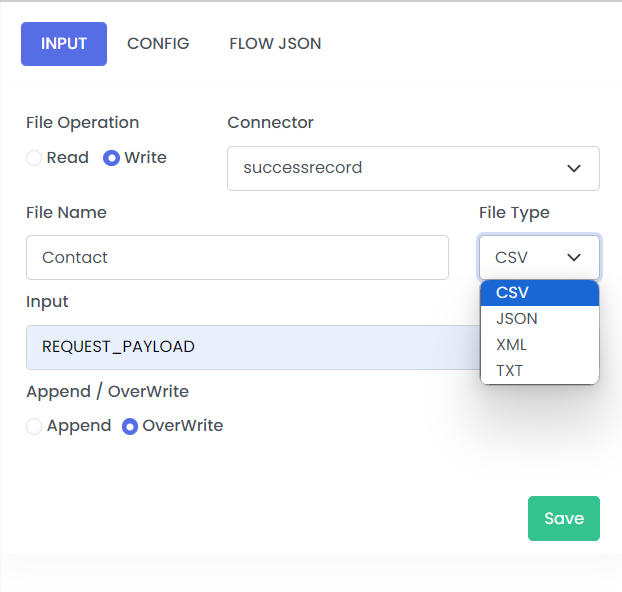
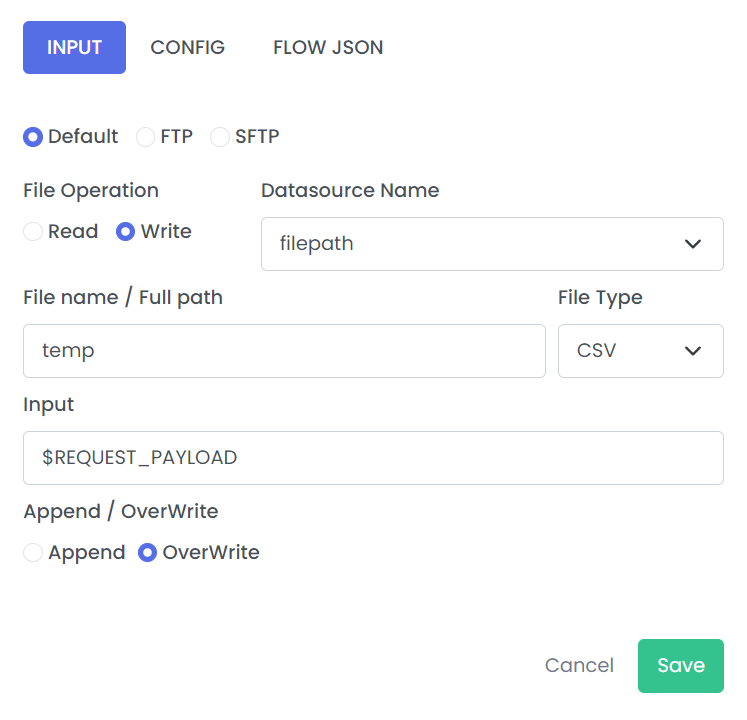
(pranab) updated file connector and url validator

diff --git a/docs/Core Development/Connectors/FILE/DEFAULT.md b/docs/Core Development/Connectors/FILE/DEFAULT.md
@@ -1,0 +1,150 @@
+---
+sidebar_position: 1
+slug: "file-connector"
+sidebar_label: "DEFAULT"
+---
+
+import useBaseUrl from '@docusaurus/useBaseUrl';
+
+# Default file Connector
+
+**Default file** Connector is used to handle **File**s in **AWS S3**
+
+<img src={useBaseUrl('/img/Connectors/FILE_Connector.png')} />
+
+#### Default file-Connector features:
+
+1. Ability to read Files from s3
+2. Writing Files to s3
+3. Copy and move Files in s3
+4. Locking File so that no one can access File when the processing is going on
+5. Listing the File and folders mentioned at directory path
+6. Trigger a flow when the new File created or modified
+
+#### Operation available:
+1. Copy
+2. Create Directory
+3. Delete
+4. List
+5. Move
+6. On New or Updated **File**
+7. Read
+8. Rename
+9. Write
+
+### Configuring File Connector
+left click on connector, you can define the **File Connector** configuration
+
+Here are different instances demonstrating how to access the information within a file and create a file based on a specific structure. Each illustration includes a quickintegration application utilizing DataWeave for both reading and writing files.
+
+### Read File Operation
+Select the Default radio button and define configuration for file connector to read a file by selecting operation as Read. Add destination in properties to poll the file.
+Provide the file name and select operation(MOVE or DELETE) to define further course of action for the file read from the destination. 
+
+<img src={useBaseUrl('/img/Connectors/Read_File_config.png')} />
+
+<table>
+<thead>
+<tr>
+<th>Fields</th>
+<th>Description</th>
+<th>Example</th>
+</tr>
+</thead>
+<tbody>
+<tr>
+<td>Type of file connector</td>
+<td>File connector to be used for the file operation</td>
+<td>Default</td>
+</tr>
+<tr>
+<td>File Operation</td>
+<td>Read/Write</td>
+<td>Read</td>
+</tr>
+<tr>
+<td>Datasource Name</td>
+<td>Datasource name which is configured in connections properties<a href="/Core Development/Property Config/Connection Properties/file-properties"target="_blank"> Please refer the link for instructions on creating the Connector</a></td>
+<td>filePath</td>
+</tr>
+<tr>
+<td>File Name/ Full path</td>
+<td>Name of the file to be processed</td>
+<td>temp</td>
+</tr>
+<tr>
+<td>File Type</td>
+<td>Format of File</td>
+<td>CSV</td>
+</tr>
+<tr>
+<td>OutPut</td>
+<td>Output</td>
+<td>readerO</td>
+</tr>
+<tr>
+<td>Operation</td>
+<td>Operation of the file</td>
+<td>Move</td>
+</tr>
+<tr>
+<td>Destination</td>
+<td>Local destination file path</td>
+<td>/app/Schemas/Customers</td>
+</tr>
+</tbody>
+</table>
+
+## Write File Operation
+Define configuration for file connector to write a file by selecting operation as Write. Add destination in properties to write the file.
+Provide the file name and file type(XML, JSON etc.). Please select Append to continue write operation in the same file or select OverWrite to overwrite the file every time operation is performed.
+
+
+<img src={useBaseUrl('/img/Connectors/Write_file_config2.png')} />
+
+<table>
+<thead>
+<tr>
+<th>Fields</th>
+<th>Description</th>
+<th>Example</th>
+</tr>
+</thead>
+<tbody>
+<tr>
+<td>Type of file connector</td>
+<td>File connector to be used for the file operation</td>
+<td>Default</td>
+</tr>
+<tr>
+<td>File Operation</td>
+<td>Read/Write</td>
+<td>Write</td>
+</tr>
+<tr>
+<td>Datasource Name</td>
+<td>Datasource Name which is configured in connections properties<a href="/Core Development/Property Config/Connection Properties/file-properties"target="_blank"> Please refer the link for instructions on creating the Connector</a></td>
+<td>Successrecords</td>
+</tr>
+<tr>
+<td>File Name</td>
+<td>Processed File</td>
+<td>Contacts</td>
+</tr>
+<tr>
+<td>File Type</td>
+<td>Format of File</td>
+<td>CSV</td>
+</tr>
+<tr>
+<td>Input</td>
+<td>Input</td>
+<td>REQUEST_PAYLOAD</td>
+</tr>
+<tr>
+<td>Append/OverWrite</td>
+<td>Select "append" to add the request or choose "overwrite" to modify the request</td>
+<td>OverWrite</td>
+</tr>
+</tbody>
+</table>

diff --git a/docs/Core Development/Transformers/URL VALIDATOR.md b/docs/Core Development/Transformers/URL VALIDATOR.md
@@ -6,29 +6,27 @@ import useBaseUrl from '@docusaurus/useBaseUrl';
 
 # URL Validator
 
-URL Validator validates that the attribute value is a valid http or https URL. 
+URL Validator validates the **request params**,**path params** and **request body** of the incoming request. 
 
-`Note that this validator checks if the Request params are correct.`
+### Configuring URL validator
 
-#### Step 1:
+### Step 1:
 
-Drag and drop the **URL Validator**
+Drag and drop the **URL Validator** and name the component
 
-<img src={useBaseUrl('/img/Core Development/Transformer/URL Validator.png')} />;
+<img src={useBaseUrl('/img/Core Development/Transformer/URL Validator.png')} />
 
-<img src={useBaseUrl('/img/Core Development/Transformer/drag and drop URL.png')} />;
+<img src={useBaseUrl('/img/Core Development/Transformer/drag and drop URL.png')} />
 
-#### Step 2:
+### Step 2.a:
+Configuring URL Validator for **Request params**
 
-Configuring **URL Validator**
-
-1) left click on URL Validator Transformer, you can define the  configration
-
-2) Provide the Scenario-Name 
-
-3) Click the Add button to include the request parameters.
+1) Right click on URL Validator Transformer
+2) Click the plus button on the right to add the fields
+3) Name the appropriate request parameter name and the datatype
+4) Click save
    
-<img src={useBaseUrl('/img/Core Development/Transformer/URL Validator config.png')} />;
+<img src={useBaseUrl('/img/Core Development/Transformer/URL_Validator_config_request_param.png')} />
 
 <table>
 <thead>
@@ -40,14 +38,52 @@ Configuring **URL Validator**
 </thead>
 <tbody>
 <tr>
-<td>Scenario-Name</td>
-<td>Name of the scenario to be performed in case the validation failed.</td>
-<td>Validate_request</td>
+<td>Value</td>
+<td>Name of the parameter</td>
+<td>companyName</td>
 </tr>
 <tr>
-<td>Request Params</td>
-<td>Names of the param keys passed in query parameters.</td>
-<td>ID</td>
+<td>Datatype</td>
+<td>Datatype of the parameter</td>
+<td>String</td>
+</tr>
+<tr>
+<td>Value</td>
+<td>Name of the parameter</td>
+<td>yearsOfExperience</td>
+</tr>
+<tr>
+<td>Datatype</td>
+<td>Datatype of the parameter</td>
+<td>Number</td>
 </tr>
 </tbody>
 </table>
+
+### Step 2.b:
+Configuring URL Validator for **Request Body (JSON)**
+
+1) Right click on URL Validator Transformer
+2) Click the toggle button to validate request body
+3) Select the schema type as JSON
+4) Upload the JSON schema using the upload button
+5) You can check the schema from the view button
+6) Click save
+   
+<img src={useBaseUrl('/img/Core Development/Transformer/URL_Validator_config_request_body_json.png')} />
+
+<img src={useBaseUrl('/img/Core Development/Transformer/URL_Validator_config_request_body_json_schema.png')} />
+
+### Step 2.c:
+Configuring URL Validator for **Request Body (CSV)**
+
+1) Right click on URL Validator Transformer
+2) Click the toggle button to validate request body
+3) Select the schema type as CSV
+4) Upload the CSV schema using the upload button
+5) You can check the schema from the view button
+6) Click save
+   
+<img src={useBaseUrl('/img/Core Development/Transformer/URL_Validator_config_request_body_csv.png')} />
+
+<img src={useBaseUrl('/img/Core Development/Transformer/URL_Validator_config_request_body_csv_schema.png')} />

diff --git a/docs/Core Development/Connectors/FILE/SFTP.md b/docs/Core Development/Connectors/FILE/SFTP.md
@@ -49,7 +49,7 @@ left click on connector, you can define the **SFTP Connector** configration
 </tr>
 <tr>
 <td>Datasource Name</td>
-<td>Datasource Name which is configured in connections properties<a href="/Core Development/Property Config/Connection Properties/DataSource SFTP"target="_blank"> Please refer the link for instructions on creating the datasource name</a></td>
+<td>Datasource Name which is configured in connections properties<a href="/Core Development/Property Config/Connection Properties/sftp-properties"target="_blank"> Please refer the link for instructions on creating the datasource name</a></td>
 <td>sftpcall</td>
 </tr>
 <tr>
@@ -71,6 +71,11 @@ left click on connector, you can define the **SFTP Connector** configration
 <td>Operation</td>
 <td>Operation of the file</td>
 <td>Move</td>
+</tr>
+<tr>
+<td>Destination</td>
+<td>Local destination file path</td>
+<td>/app/Schemas/Customers</td>
 </tr>
 </tbody>
 </table>
@@ -96,7 +101,7 @@ left click on connector, you can define the **SFTP Connector** configration
 </tr>
 <tr>
 <td>Datasource Name</td>
-<td>Datasource Name which is configured in connections properties<a href="/Core Development/Property Config/Connection Properties/DataSource SFTP"target="_blank"> Please refer the link for instructions on creating the datasource name</a></td>
+<td>Datasource Name which is configured in connections properties<a href="/Core Development\Property Config\Connection Properties\sftp-properties"target="_blank"> Please refer the link for instructions on creating the datasource name</a></td>
 <td>sftpcall</td>
 </tr>
 <tr>

diff --git a/docs/Core Development/Connectors/FILE/FTP.md b/docs/Core Development/Connectors/FILE/FTP.md
@@ -54,7 +54,7 @@ left click on connector, you can define the **FTP Connector** configration
 </tr>
 <tr>
 <td>Datasource Name</td>
-<td>Datasource Name which is configured in connections properties<a href="/Core Development/Property Config/Connection Properties/DataSource FTP"target="_blank"> Please refer the link for instructions on creating the datasource name</a></td>
+<td>Datasource Name which is configured in connections properties<a href="/Core Development/Property Config/Connection Properties/ftp-properties"target="_blank"> Please refer the link for instructions on creating the datasource name</a></td>
 <td>ftpcall</td>
 </tr>
 <tr>
@@ -76,6 +76,11 @@ left click on connector, you can define the **FTP Connector** configration
 <td>Operation</td>
 <td>Operation of the file</td>
 <td>Move</td>
+</tr>
+<tr>
+<td>Destination</td>
+<td>Local destination file path</td>
+<td>/app/Schemas/Customers</td>
 </tr>
 </tbody>
 </table>
@@ -101,7 +106,7 @@ left click on connector, you can define the **FTP Connector** configration
 </tr>
 <tr>
 <td>Datasource Name</td>
-<td>Datasource Name which is configured in connections properties<a href="/Core Development/Property Config/Connection Properties/DataSource FTP"target="_blank"> Please refer the link for instructions on creating the datasource name</a></td>
+<td>Datasource Name which is configured in connections properties<a href="/Core Development/Property Config/Connection Properties/ftp-properties"target="_blank"> Please refer the link for instructions on creating the datasource name</a></td>
 <td>ftpcall</td>
 </tr>
 <tr>
